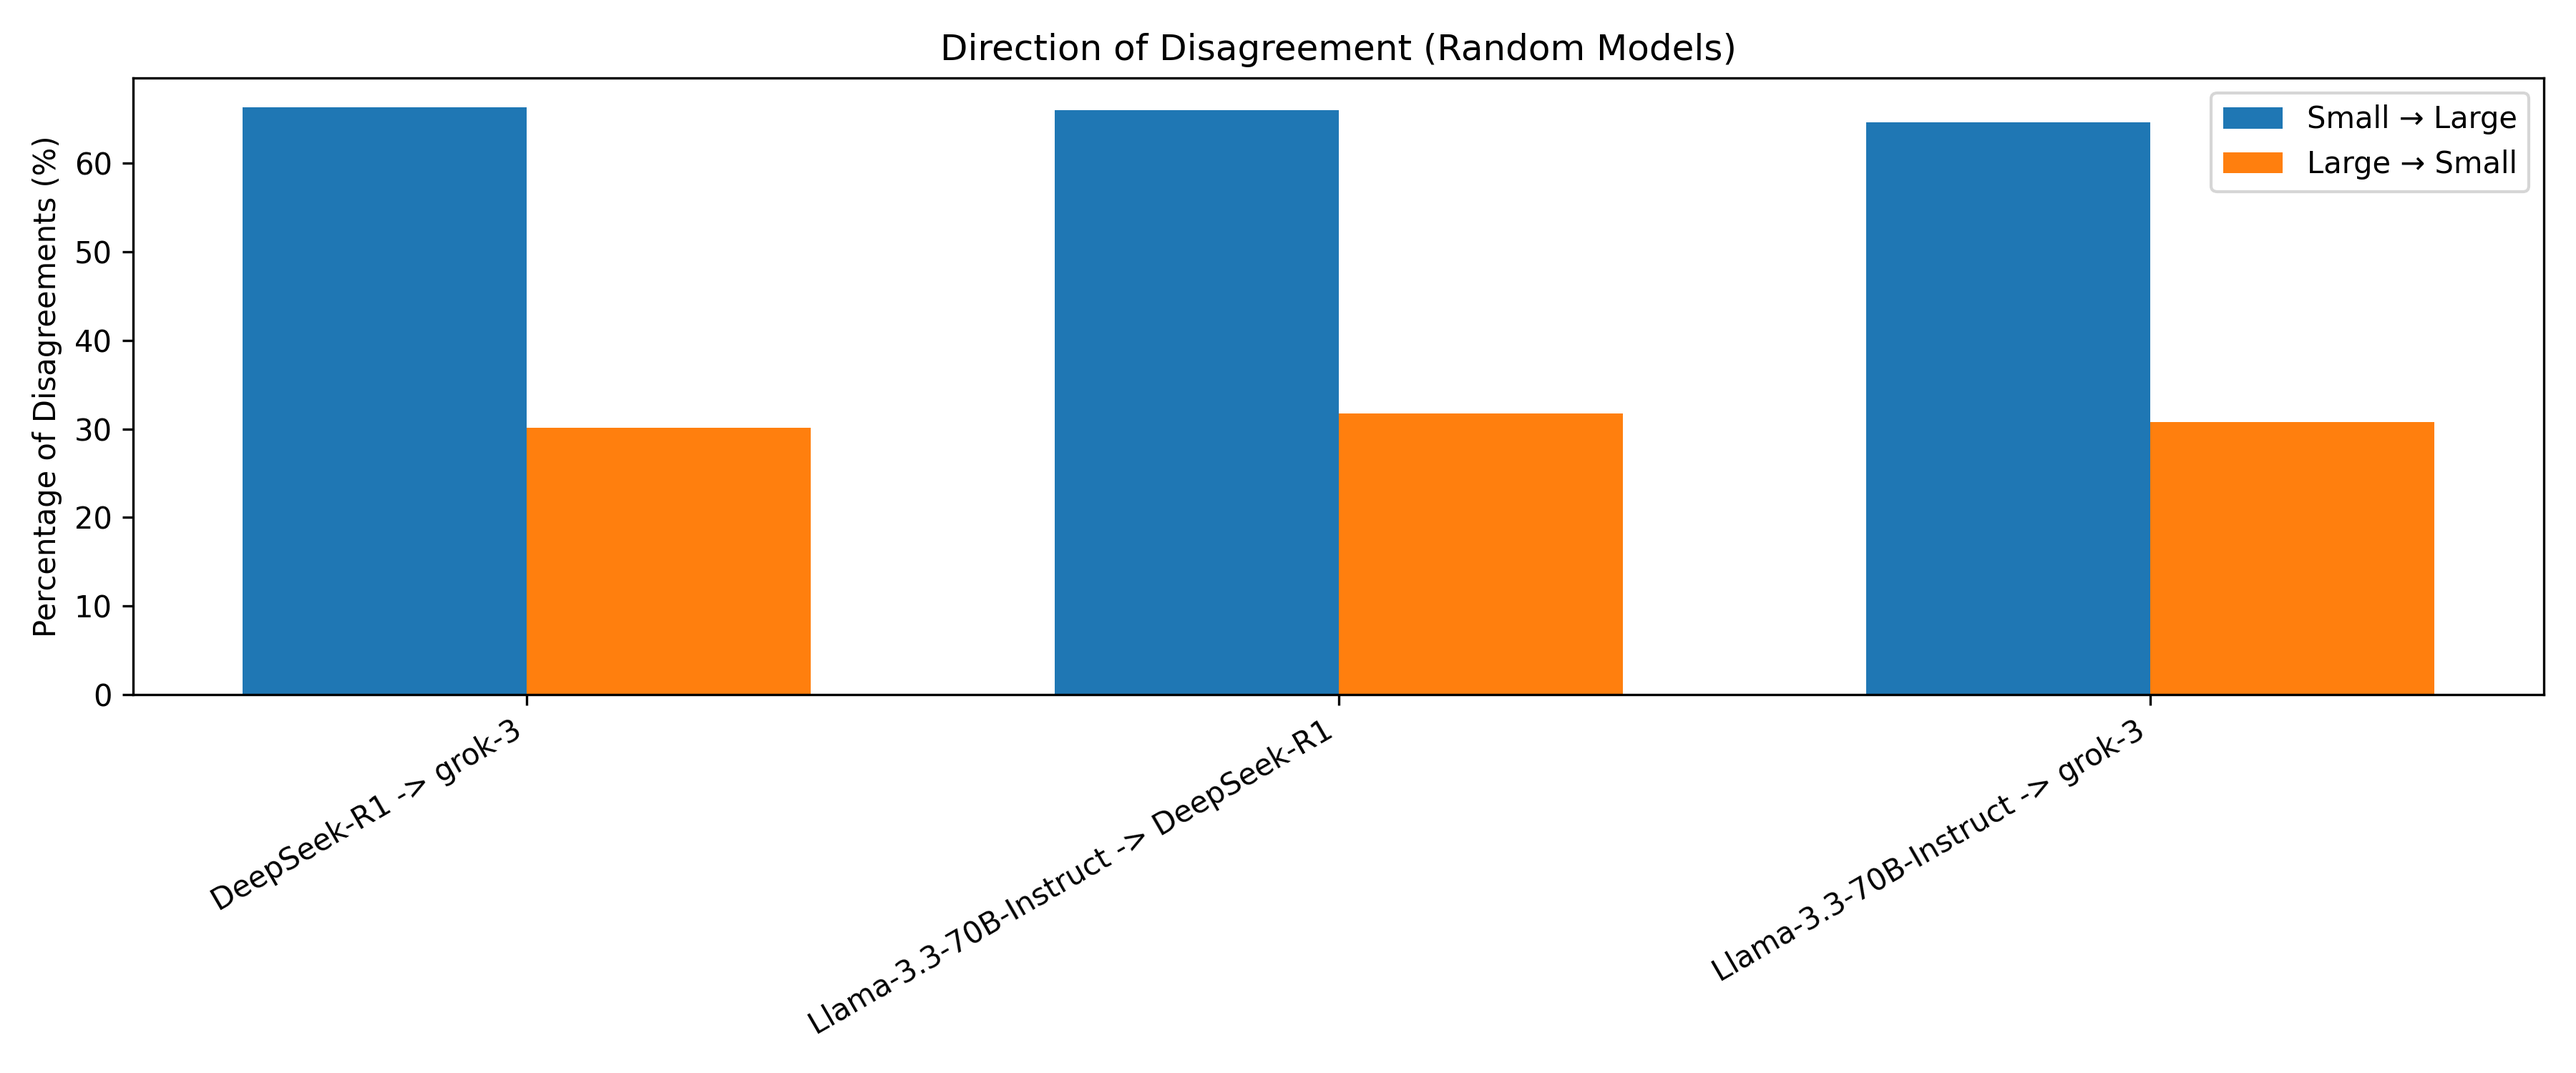
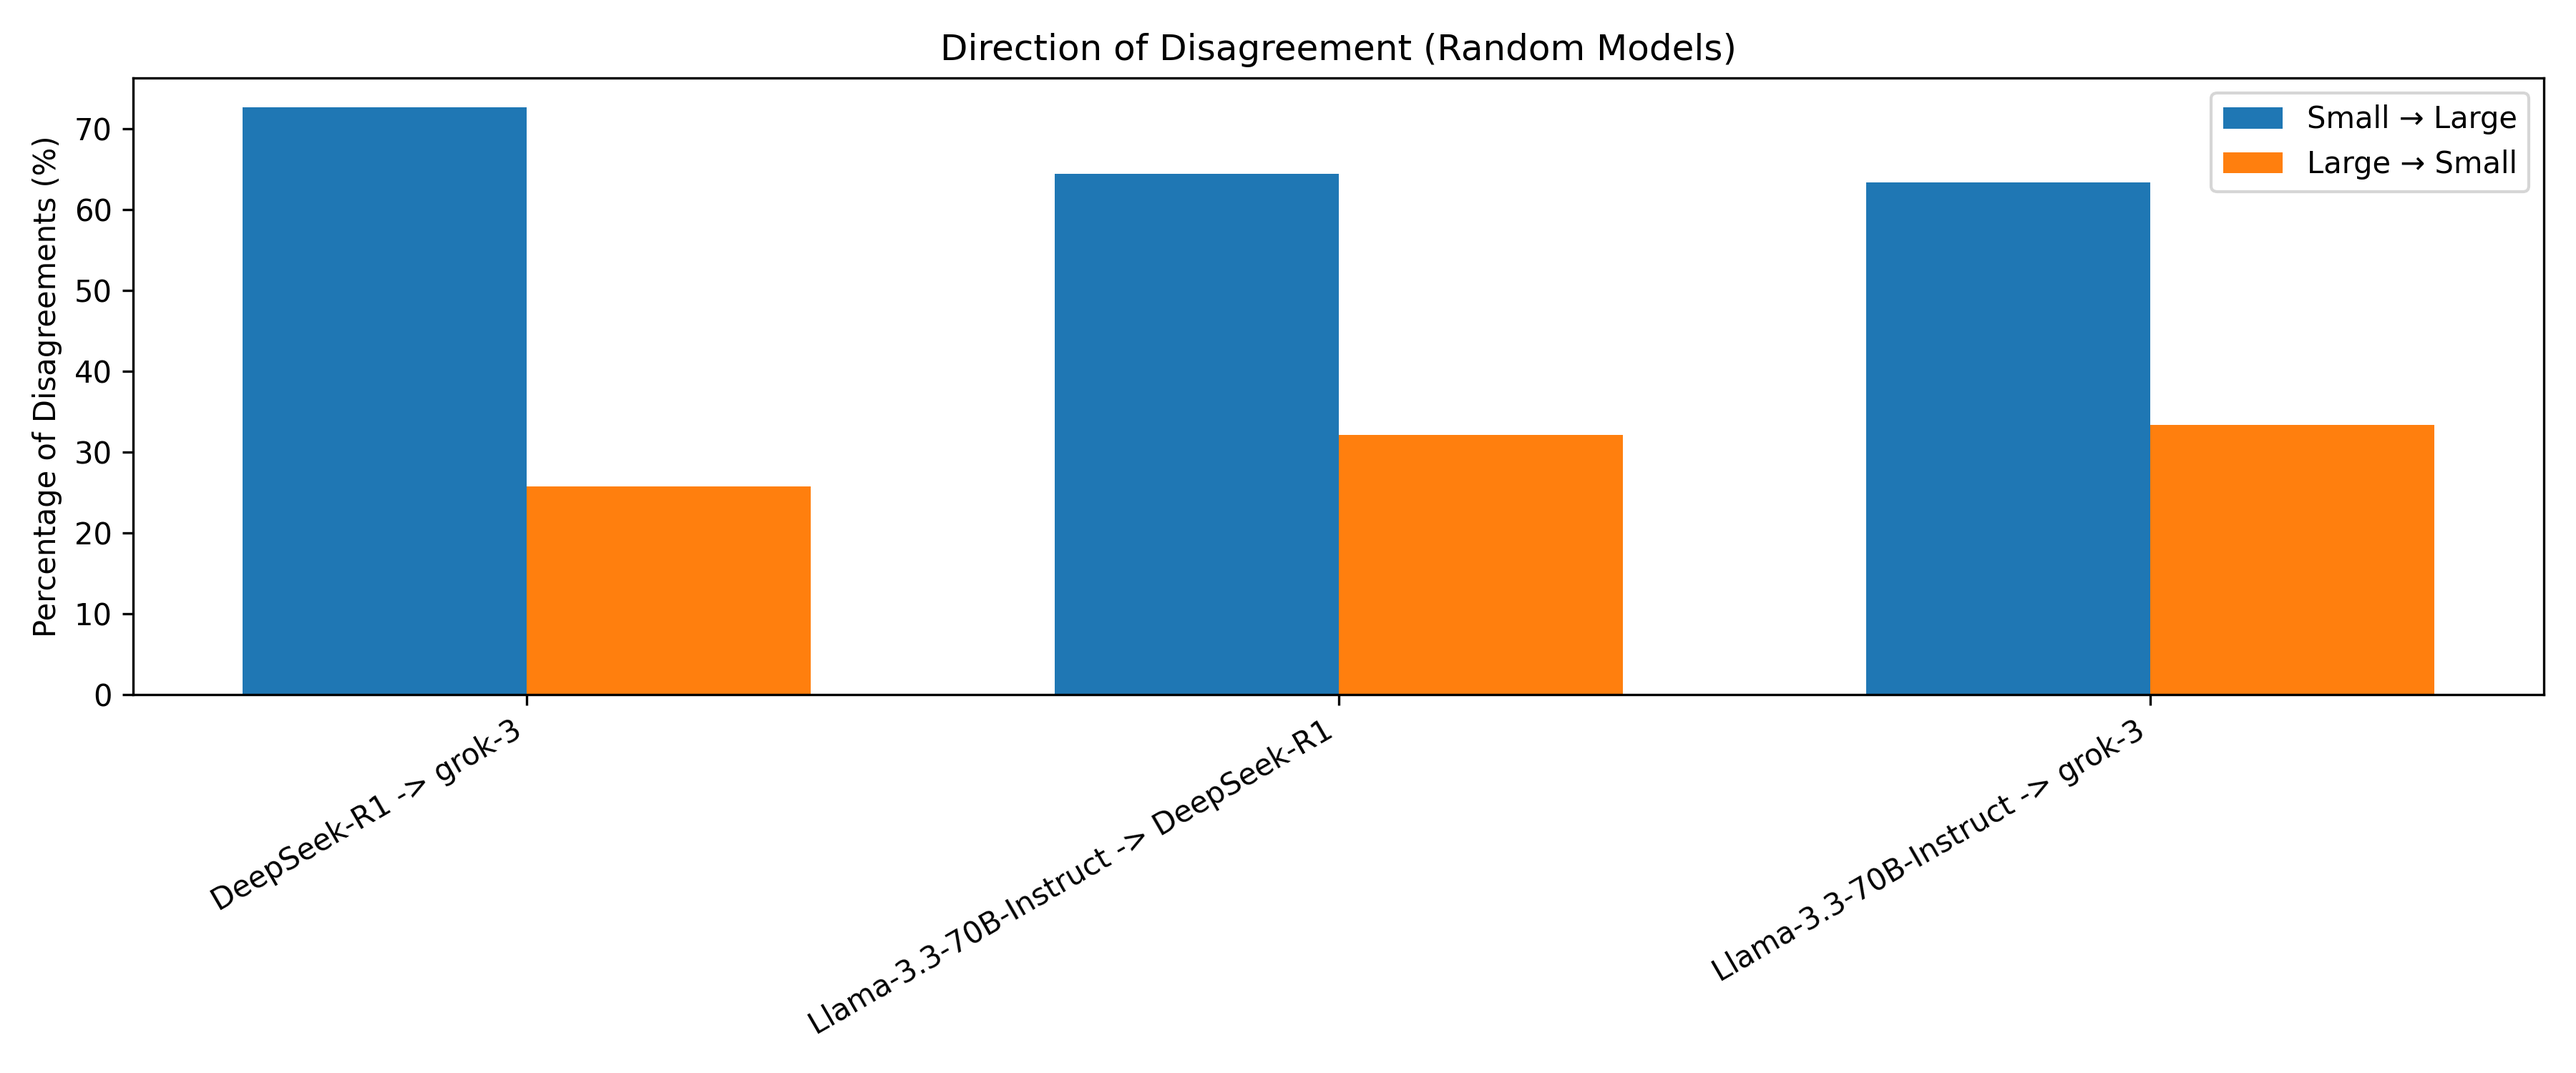
Experiments Analysis

diff --git a/plot_defer.py b/plot_defer.py
@@ -9,7 +9,8 @@ GPT41_ROTATE_JSON = "analysis_outputs/GlobalOpinionsQA/agent_names/gpt-4.1-fam/g
 
 FIG_DIR = "figures/directional_metrics"
 
-RANDOM_JSON = "analysis_outputs/random_models/random_models_directional.json"
+RANDOM_JSON = "analysis_outputs/GlobalOpinionsQA/agent_names/random_models/random_models_NORMAL_directional.json"
+RANDOM_ROTATE_JSON = "analysis_outputs/GlobalOpinionsQA/agent_names/random_models/random_models_ROTATED_directional.json"
 def load_json(path):
     with open(path, "r") as f:
         return json.load(f)
@@ -64,12 +65,19 @@ if __name__ == "__main__":
     random_data = load_json(RANDOM_JSON)
     gpt41_data = load_json(GPT41)
     gpt41_rotate_data = load_json(GPT41_ROTATE_JSON)
+    random_rotate_data = load_json(RANDOM_ROTATE_JSON)
 
     # Plot 1: Directional disagreement
     plot_directional_bars(
         random_data,
         "Direction of Disagreement (Random Models)",
         "directional_bars_random_models.png",
+    )
+
+    plot_directional_bars(
+        random_rotate_data,
+        "Direction of Disagreement (Random Models Rotated)",
+        "directional_bars_random_models_rotated.png",
     )
 
     plot_directional_bars(
@@ -86,8 +94,14 @@ if __name__ == "__main__":
     # Plot 2: Asymmetry ratios
     plot_asymmetry_ratios(
         random_data,
-        "Asymmetric Alignment Strength (Frontier Models)",
-        "asymmetry_ratios_frontier_models.png",
+        "Asymmetric Alignment Strength (Random Models)",
+        "asymmetry_ratios_random_models.png",
+    )
+
+    plot_asymmetry_ratios(
+        random_rotate_data,
+        "Asymmetric Alignment Strength (Random Models Rotated)",
+        "asymmetry_ratios_random_models_rotated.png",
     )
 
     plot_asymmetry_ratios(

diff --git a/plot_rounds_disagree.py b/plot_rounds_disagree.py
@@ -31,12 +31,12 @@ def main():
         "--folders",
         nargs="+",
         required=False,
-        default = ["metrics/OpinionsQA/train/gpt-4.1-family"],
+        default = ["metrics/GlobalOpinionsQA/agent_names/gpt-4.1-fam/agents_3_questions_2556" , "metrics/GlobalOpinionsQA/agent_names/gpt-4.1-fam/agents_3_questions_2556_rotated"],
         help="Model folder names under metrics/ (e.g., gpt-4.1-family DeepSeek-R1)"
     )
     parser.add_argument(
         "--out-dir",
-        default="figures/OpinionsQA/train/gpt-4.1-family/",
+        default="figures/GlobalOpinionsQA/agent_names/gpt-4.1-fam-rotated_vs_normal",
         help="Directory to save the figure (default: figures/)"
     )
     parser.add_argument(
@@ -53,7 +53,7 @@ def main():
     args = parser.parse_args()
 
     rounds = [1, 2, 3]
-    plt.figure(figsize=(8, 5))
+    plt.figure(figsize=(12, 5))
 
     for folder in args.folders:
         values = load_model_metrics(folder)
@@ -61,7 +61,7 @@ def main():
 
     plt.xticks(rounds)
     plt.xlabel("Deliberation Round")
-    plt.ylabel("Questions with ≥ 1 Disagreement (%)")
+    plt.ylabel("Questions with >= 1 Disagreement (%)")
     plt.title(args.title)
     plt.legend()
     plt.grid(True, alpha=0.3)

diff --git a/check.py b/check.py
@@ -28,7 +28,7 @@ def main():
     )
     parser.add_argument(
         "--folder",
-        default="GlobalOpinionsQA/agent_names/Llama-Fam-3",
+        default="GlobalOpinionsQA/agent_names/random_models",
         required=False
     )
     parser.add_argument(
